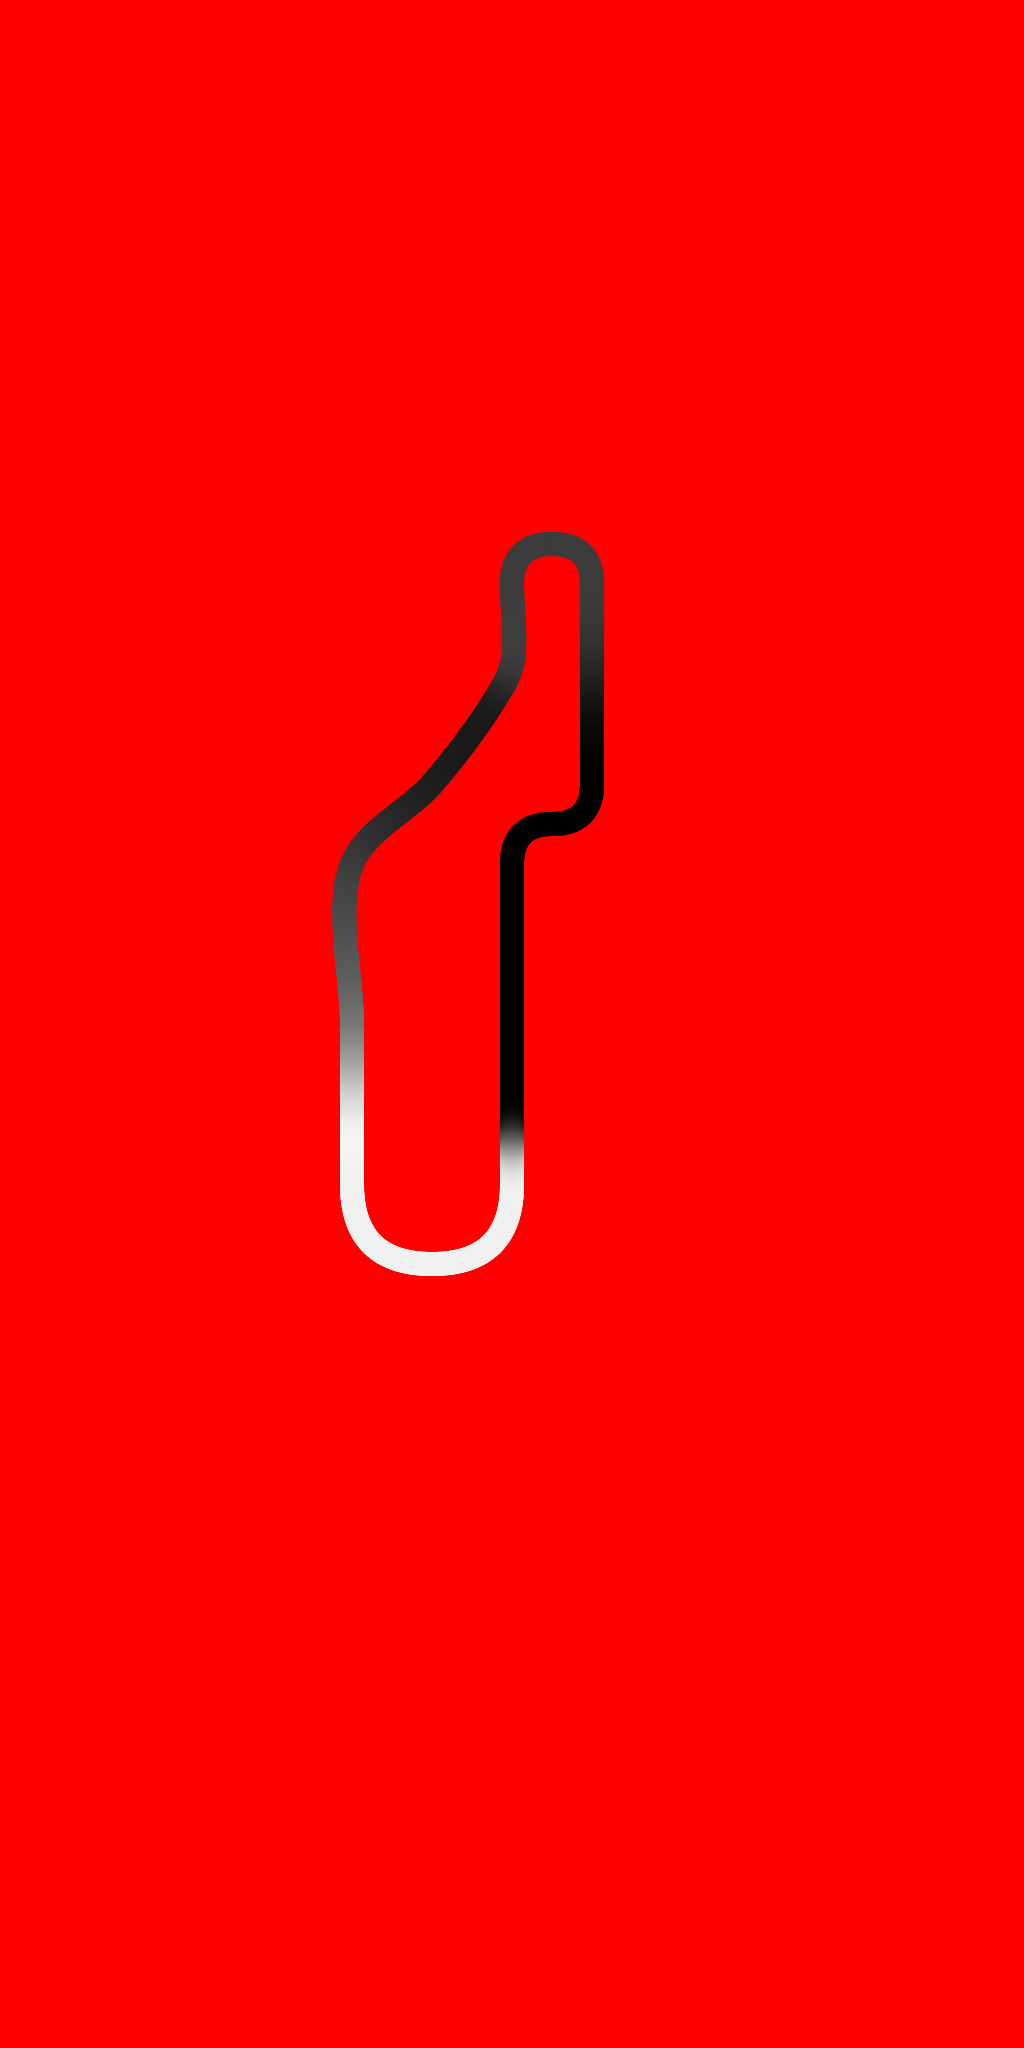
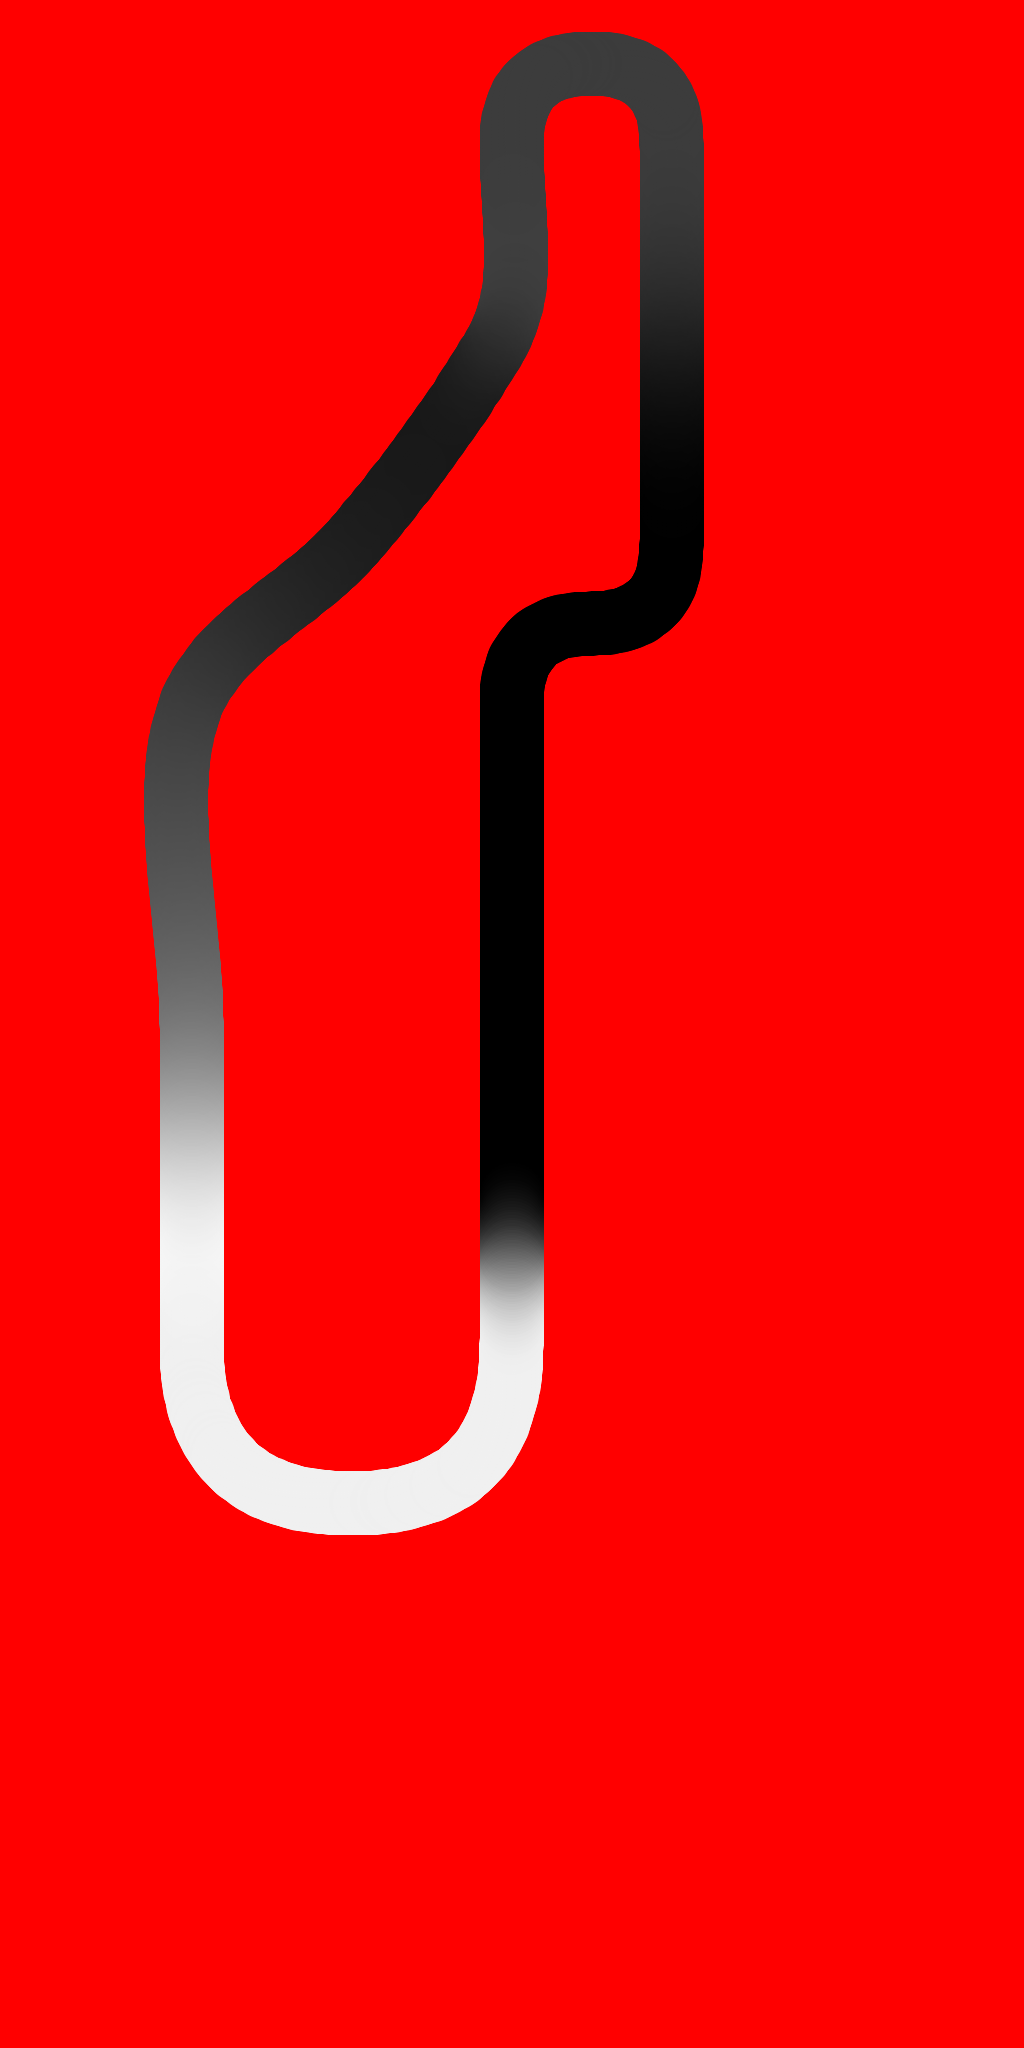
Collisions 2

Changed region(s): [[0.125, 0.0, 0.6875, 0.75]]

diff --git a/main.ts b/main.ts
@@ -2,7 +2,7 @@ import * as THREE from "three";
 import { OBJLoader } from "three/addons/loaders/OBJLoader.js";
 
 import { road, roadSpine } from "./src/js/meshes";
-import { createHeightMap, pointToPixel, rgbToHex } from "./src/js/utils";
+import { createCollisionMap, createHeightMap, pointToPixel } from "./src/js/utils";
 import skyleft from "./src/assets/images/sky/skyleft.png";
 import skyright from "./src/assets/images/sky/skyright.png";
 import skytop from "./src/assets/images/sky/skytop.png";
@@ -10,7 +10,7 @@ import skybottom from "./src/assets/images/sky/skybottom.png";
 import skyfront from "./src/assets/images/sky/skyfront.png";
 import skyback from "./src/assets/images/sky/skyback.png";
 import displacement from "./src/assets/images/displacement.png";
-import collisionMap from "./src/assets/images/displacement.png";
+import collisionMap from "./src/assets/images/collision.png";
 //import craft1 from "./src/assets/models/craft1.obj";
 
 (function () {
@@ -18,6 +18,8 @@ import collisionMap from "./src/assets/images/displacement.png";
     CAMERA,
     PLAYER,
     BIRD,
+    COLLISION_MAP,
+    HEIGHT_MAP,
     MAP,
   }
 
@@ -49,7 +51,7 @@ import collisionMap from "./src/assets/images/displacement.png";
   const renderer = new THREE.WebGLRenderer();
   renderer.setSize(window.innerWidth, window.innerHeight);
 
-  let imageData: ImageData = undefined;
+  let heightData: ImageData = undefined;
   let collisionData: ImageData = undefined;
   let isDownDown = false;
   let isUpDown = false;
@@ -59,7 +61,7 @@ import collisionMap from "./src/assets/images/displacement.png";
   let rotateSpeed = 0;
   let model: THREE.Object3D = undefined;
 
-  const imageTexture = new THREE.TextureLoader().load(displacement, (texture) => {
+  new THREE.TextureLoader().load(displacement, (texture) => {
     const canvas = document.createElement("canvas");
     canvas.width = texture.image.width;
     canvas.height = texture.image.height;
@@ -67,10 +69,10 @@ import collisionMap from "./src/assets/images/displacement.png";
     const context = canvas.getContext("2d");
     context.drawImage(texture.image, 0, 0);
 
-    imageData = context.getImageData(0, 0, canvas.width, canvas.height);
+    heightData = context.getImageData(0, 0, canvas.width, canvas.height);
   });
 
-  const imageTexture2 = new THREE.TextureLoader().load(collisionMap, (texture) => {
+  new THREE.TextureLoader().load(collisionMap, (texture) => {
     const canvas = document.createElement("canvas");
     canvas.width = texture.image.width;
     canvas.height = texture.image.height;
@@ -100,46 +102,26 @@ import collisionMap from "./src/assets/images/displacement.png";
     actor.add(object);
   });
 
-  function getCollision(imageData: ImageData, position: THREE.Vector3, rotationY: THREE.Vector3): [number, number] {
-    const pixel = getPixel(imageData, new THREE.Vector2(position.x, position.z));
+  function getCollision(heightData: ImageData, position: THREE.Vector3, rotationY: THREE.Vector3): [number, number] {
+    const pixel = getPixel(heightData, new THREE.Vector2(position.x, position.z));
     const direction = new THREE.Vector2(rotationY.x, rotationY.z);
     const angle = direction.angle();
 
-    // this.repulsionVLeft.set(1, 0, 0);
-    //this.repulsionVRight.set(-1, 0, 0);
-    //this.dummy.matrix.rotateAxis(this.repulsionVLeft);
-    //this.dummy.matrix.rotateAxis(this.repulsionVRight);
-    //repulsionVLeft.multiplyScalar(scale).applyAxisAngle(new THREE.Vector3(0, 1, 0), rotationY - Math.PI / 2);
-    //repulsionVRight.multiplyScalar(scale).applyAxisAngle(new THREE.Vector3(0, 1, 0), rotationY + Math.PI / 2);
-
-    //const lPos = repulsionVLeft.add(position);
-    //const rPos = repulsionVRight.add(position);
-    //var lCol = this.collisionMap.getPixel(Math.round(lPos.x), Math.round(lPos.z)).r;
-    //var rCol = this.collisionMap.getPixel(Math.round(rPos.x), Math.round(rPos.z)).r;
-
-    // console.log("angle", angle);
     if (pixel) {
       const [r] = pixel;
 
       if (r === 255) {
-        const repulsionVLeft = new THREE.Vector2(2, 0);
-        const repulsionVRight = new THREE.Vector2(2, 0);
-
-        repulsionVLeft.rotateAround(new THREE.Vector2(0, 0), angle - Math.PI / 2);
-        repulsionVRight.rotateAround(new THREE.Vector2(0, 0), angle + Math.PI / 2);
-        //console.log("repulsionVLeft", repulsionVLeft);
-        //console.log("repulsionVRight", repulsionVRight);
+        const repulsionVLeft = new THREE.Vector2(4, 0).rotateAround(new THREE.Vector2(0, 0), angle - Math.PI / 2);
+        const repulsionVRight = new THREE.Vector2(4, 0).rotateAround(new THREE.Vector2(0, 0), angle + Math.PI / 2);
 
         const [left] = getPixel(
-          imageData,
+          heightData,
           new THREE.Vector2(repulsionVLeft.x, repulsionVLeft.y).add(new THREE.Vector2(position.x, position.z))
         );
         const [right] = getPixel(
-          imageData,
+          heightData,
           new THREE.Vector2(repulsionVRight.x, repulsionVRight.y).add(new THREE.Vector2(position.x, position.z))
         );
-        console.log("left", left);
-        console.log("right", right);
 
         return [left / 255, right / 255];
       }
@@ -148,8 +130,8 @@ import collisionMap from "./src/assets/images/displacement.png";
     return undefined;
   }
 
-  function getHeight(imageData: ImageData, position: THREE.Vector3, min = 0, max = 8.5) {
-    const pixel = getPixel(imageData, new THREE.Vector2(position.x, position.z));
+  function getHeight(heightData: ImageData, position: THREE.Vector3, min = 0, max = 8.5) {
+    const pixel = getPixel(heightData, new THREE.Vector2(position.x, position.z));
 
     if (pixel) {
       const [r, _, b] = pixel;
@@ -164,14 +146,14 @@ import collisionMap from "./src/assets/images/displacement.png";
     return min;
   }
 
-  function getPixel(imageData: ImageData, position: THREE.Vector2) {
+  function getPixel(heightData: ImageData, position: THREE.Vector2) {
     const pixel = pointToPixel(position.x, position.y, width, height);
     const start = Math.floor(pixel.y * width + pixel.x) * 4;
 
-    if (imageData) {
-      const r = imageData.data[start];
-      const g = imageData.data[start + 1];
-      const b = imageData.data[start + 2];
+    if (heightData) {
+      const r = heightData.data[start];
+      const g = heightData.data[start + 1];
+      const b = heightData.data[start + 2];
 
       return [r, g, b];
     }
@@ -256,36 +238,27 @@ import collisionMap from "./src/assets/images/displacement.png";
 
         if (collision) {
           const energy = new THREE.Vector3();
-          const repulsionAmount = speed * 0.5; // Math.max(0.8, Math.min(2.5, speed * 0.5));
+          const repulsionAmount = Math.max(speed, 0.01);
           const [left, right] = collision;
 
-          console.log("left", left);
-          console.log("right", right);
           if (right > left) {
-            // Repulse right
             energy.x += repulsionAmount;
-            //this.collision.left = true;
+            speed *= 0.5;
           } else if (right < left) {
-            // Repulse left
             energy.x += -repulsionAmount;
-            //this.collision.right = true;
+            speed *= 0.5;
           } else {
-            //console.log(collision.r+"  --  "+fCol+"  @  "+lCol+"  /  "+rCol);
             energy.z += -repulsionAmount * 2;
-            //this.collision.front = true;
-            //speed = 0;
-            //repulsion.lerp(new THREE.Vector3(), 0.1);
+            speed *= 0.25;
           }
-          //energy.
-          //repulsion.applyAxisAngle();
-          //repulsion.applyEuler();
 
-          //repulsion.applyAxisAngle(new THREE.Vector3(0, 1, 0), direction.angleTo());
+          repulsion.copy(energy.applyEuler(actor.rotation));
         } else {
           repulsion.lerp(new THREE.Vector3(), 0.1);
         }
 
-        const y = getHeight(imageData, actor.position, 0, 8.5);
+        // Update objects
+        const y = getHeight(heightData, actor.position, 0, 8.5);
         actor.position.add(direction.multiplyScalar(speed)).add(repulsion);
         actor.position.lerp(actor.position.clone().setY(y), 0.25);
 
@@ -321,7 +294,9 @@ import collisionMap from "./src/assets/images/displacement.png";
   }
 
   function init() {
-    if (cameraMode === CameraMode.MAP) {
+    if (cameraMode === CameraMode.COLLISION_MAP) {
+      createCollisionMap(spline, width, height);
+    } else if (cameraMode === CameraMode.HEIGHT_MAP) {
       createHeightMap(spline, width, height);
     } else {
       document.body.appendChild(renderer.domElement);

diff --git a/src/js/utils.ts b/src/js/utils.ts
@@ -11,7 +11,7 @@ export function rgbToHex(r: number, g: number, b: number) {
 }
 
 export function pointToPixel(x: number, y: number, width: number, height: number) {
-  return new THREE.Vector2(Math.floor(width / 2 + x * 5), Math.floor(height / 2 + y * 5));
+  return new THREE.Vector2(Math.floor(width / 2 + x * 10), Math.floor(height / 2 + y * 10));
 }
 
 export function createHeightMap(curve: THREE.CurvePath<THREE.Vector3>, width: number, height: number) {
@@ -36,6 +36,35 @@ export function createHeightMap(curve: THREE.CurvePath<THREE.Vector3>, width: nu
     const value = point.y * colInc * 255;
 
     context.fillStyle = rgbToHex(value, value, value);
+    context.beginPath();
+    context.arc(pixel.x, pixel.y, 32, 0, 2 * Math.PI);
+    context.fill();
+    context.closePath();
+  });
+
+  context.getImageData(0, 0, width, height);
+}
+
+export function createCollisionMap(curve: THREE.CurvePath<THREE.Vector3>, width: number, height: number) {
+  const canvas = document.createElement("canvas");
+  canvas.width = width;
+  canvas.height = height;
+
+  document.body.appendChild(canvas);
+
+  const context = canvas.getContext("2d");
+  const points = curve.getSpacedPoints(1000);
+  const max = 8.5;
+  const min = 0;
+
+  //context.imageSmoothingEnabled = false;
+  context.fillStyle = "#ffffff";
+  context.fillRect(0, 0, width, height);
+  context.fillStyle = "#000000";
+
+  points.forEach((point) => {
+    const pixel = pointToPixel(point.x, point.z, width, height);
+
     context.beginPath();
     context.arc(pixel.x, pixel.y, 12, 0, 2 * Math.PI);
     context.fill();
